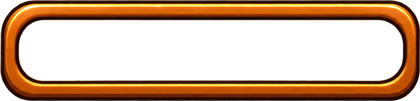
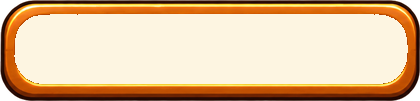
두더지팡: 문의하기 — 액자 좌우 틈 없앰, 연노랑 판 기둥까지, 문의 내용 5줄·직선 테두리, 이메일 칸 키움, 입력칸 안쪽 검은 선 제거 (v1015)
Claude-Session: https://claude.ai/code/session_01GirAya7RX91uMc859bmUVe

diff --git a/mole/style.css b/mole/style.css
@@ -7043,3 +7043,31 @@ html, body, .cosmic-bg { background: #2a190d; }
 .ct-frame::after { display: block; content: ''; position: absolute; z-index: 4; pointer-events: none; left: -14px; right: -14px; top: -40px; bottom: -18px; -webkit-mask: none;
   border: solid transparent; border-width: 40px 14px 18px; border-image: url('assets/contact/frame-top.png') 96 34 42 34 / 40px 14px 18px stretch; }
 .ct-frame::before { z-index: 5; }
+.ct-frame { margin-left: -4px; margin-right: -4px; } /* v1015(사용자 지정): 액자 좌우 바깥 틈 없게 — 안쪽 박스는 그대로 */
+.ct-panel { margin-left: 0; margin-right: 0; }
+/* v1015(사용자 지정): 문의 내용 칸 = 약 5줄 — 다른 칸·여백을 줄여 공간 확보 */
+.ct-area { min-height: calc(5 * 1.3em + 20px); flex: 1 1 auto; line-height: 1.3; font-size: 0.85rem; }
+.ct-panel { gap: 3px; padding-top: 4px; padding-bottom: 2px; }
+.ct-sec { padding: 3px 7px 5px; gap: 2px; }
+.ct-lbl { font-size: 0.85rem; }
+.ct-drop, .ct-mail { height: 32px; }
+.ct-err { min-height: 0; margin: 0; }
+.ct-send { height: 40px; margin-bottom: 20px; }
+.ct-sec--grow { flex: 0 0 auto; } /* 내용 칸이 아래 칸을 덮지 않게 */
+.ct-area { width: calc(100% + 0.2cm); margin: 0 -0.1cm; } /* v1015(사용자 지정): 좌우 각 0.1cm 넓게 */
+.ct-area { width: calc(100% + 12px); margin: 0 -6px; } /* v1015(사용자 지정): 문의 내용 칸 좌우를 바깥 박스 안쪽 선까지 */
+.ct-panel { gap: 2px; padding-top: 2px; }
+.ct-sec { padding-top: 2px; padding-bottom: 4px; }
+.ct-send { height: 38px; margin-bottom: 14px; }
+.ct-sec--grow { flex: 1 0 auto; } /* 5줄보다 작아지지 않고(이메일 칸과 안 겹침), 화면이 크면 늘어남 */
+.ct-panel { padding-left: 1px; padding-right: 1px; } /* v1015(사용자 지정): 노란 박스 좌우를 나무 기둥 안쪽 선까지 */
+.ct-mail { height: 40px; } /* v1015(사용자 지정): 이메일 칸 위아래로 키움 */
+/* v1015(사용자 지정): 문의 내용 입력칸이 바깥 '문의 내용' 박스 좌우·아래에 틈 없이 */
+.ct-sec--grow { padding-bottom: 0; }
+.ct-area { width: calc(100% + 14px); margin: 0 -7px; }
+/* v1015(사용자 지정): 문의 내용 칸 좌우 폭 = 이메일 칸과 같게, 안쪽 모서리 검은 선 없음 */
+.ct-area { width: 100%; margin: 0; }
+.ct-sec--grow { padding-bottom: 5px; }
+/* v1015(사용자 지정): 문의 내용 칸 안쪽 선 직선(그림 테두리 대신 주황 테두리 + 바깥 짙은 선) */
+.ct-area { border-image: none; border: 5px solid #d8781c; border-radius: 9px; background: #fdf5e1; padding: 6px 8px;
+  box-shadow: 0 0 0 2px #3a1a05, inset 0 0 0 1px rgba(255, 200, 120, 0.6); }

diff --git a/mole/index.html b/mole/index.html
@@ -892,7 +892,7 @@
         <!-- 배포 버전 표식(스크린샷으로 어느 버전인지 확인용) — 화면 좌하단에 두면 다른 UI에
              가려 잘 안 보인다는 사용자 지적으로, 하트 아이콘(다이얼패드 1번 칸) 바로 위로 이동. -->
         <div class="h2-preload" aria-hidden="true"></div><!-- v951: 게임 중 버튼 색(초록·노랑·빨강·분홍·회색) 미리 읽어 두기 — 처음 바뀔 때 깜빡임 방지 -->
-        <div id="build-tag" aria-hidden="true">v1014</div>
+        <div id="build-tag" aria-hidden="true">v1015</div>
         <!-- 피버타임(터치캐치 보너스타임) 전광판 — 버튼보드 자리를 통째로 덮는 오버레이,
              평소엔 hidden, 피버 중에만 콤보/잔여시간 표시(사용자 지정: "전광판처럼"). -->
         <div id="fever-scoreboard" class="fever-scoreboard" hidden>
@@ -1154,7 +1154,7 @@ window.FGH.rollOut = function (el, done) {
       } else {
         // ?v= 로 매 배포마다 URL을 바꿔서 GitHub Pages의 sw.js 캐시(max-age=600)를 무조건 우회 —
         // 안 그러면 배포 직후에도 최대 10분간 옛 서비스워커가 안 갈리는 경우가 있었음(사용자 보고).
-        navigator.serviceWorker.register('sw.js?v=1014').catch(function () {});
+        navigator.serviceWorker.register('sw.js?v=1015').catch(function () {});
       }
     });
   }

diff --git a/mole/sw.js b/mole/sw.js
@@ -3,7 +3,7 @@
 // 폴백 전용으로만 갱신한다. (예전엔 stale-while-revalidate라 배포해도 "다음 실행"에야
 // 반영돼 사용자 체감 대기가 길었음 — 온라인=항상 최신, 오프라인=마지막 캐시로 변경.)
 // SHELL 목록 자체가 바뀔 때만 CACHE 를 올린다.
-const CACHE = 'mole-game-v1014';
+const CACHE = 'mole-game-v1015';
 
 // 화면별 BGM(audio/bgm-*.mp3)은 v275 부터 SHELL 에 포함 — 기본 켜짐(v272)이라 항상 필요하고,
 // 캐시가 안 돼 있으면 오프라인/느린망에서 재생 실패했음.
